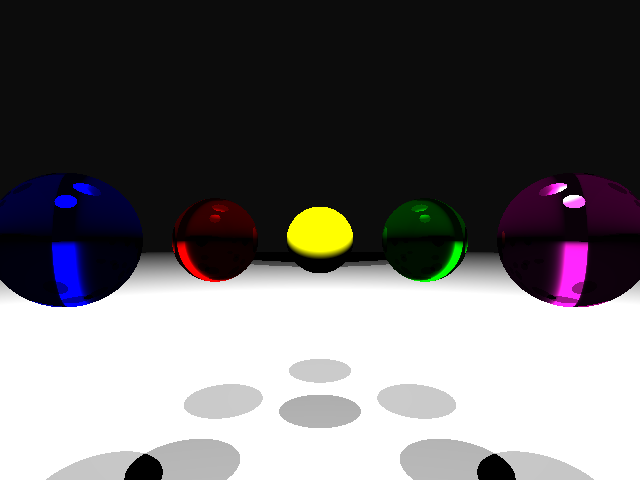
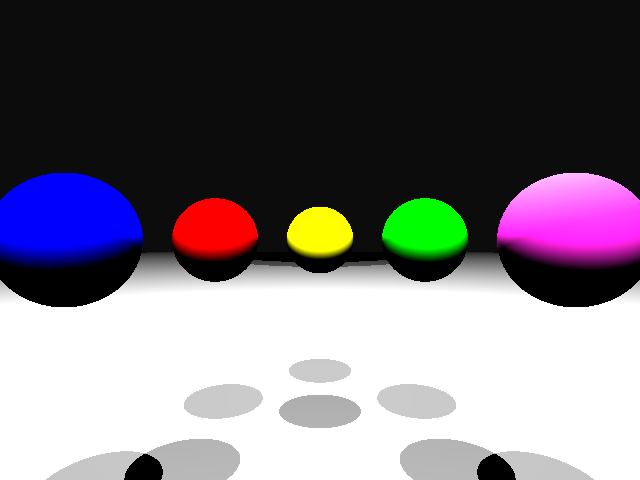
Add zbuffer

Changed region(s): [[0.5938, 0.3438, 1.0, 0.6562], [0.0, 0.3438, 0.4062, 0.6562]]

diff --git a/PipelineRayCasting/RayTracing.cpp b/PipelineRayCasting/RayTracing.cpp
@@ -1,6 +1,7 @@
 #include "RayTracing.h"
 
-float MAX_DEPTH = 3;
+float MAX_DEPTH = 0;
+float z = 0;
 
 RayTracing::RayTracing()
 {
@@ -76,11 +77,14 @@ Vec3f trace(
 	}
 
 
-	if (!sphere) 
+	if (!sphere) {
+		z = -1;
 		return background_color;
+	}
 
 	Vec3f surfaceColor = 0; 
 	Vec3f intersection = rayorig + raydir * tnear; // point of intersection
+	z = intersection.z;
 	Vec3f normal;
 	Vec2f tex;
 	sphere->getSurfaceData(intersection, normal, tex); // normal at the intersection point
@@ -175,6 +179,8 @@ void render(
 			camera.cameraToWorld().multDirMatrix(Vec3f(x, y, -1), dir);
 			dir.normalize();
 			*(pix++) = castRay(orig, dir, objects);
+			//cout << z << endl;
+			image->zbuffer[j * w + i] = z;
 		}
 	}
 

diff --git a/PipelineRayCasting/Image.cpp b/PipelineRayCasting/Image.cpp
@@ -5,6 +5,7 @@ Image::Image(int width, int height)
 	w = width;
 	h = height;
 	pixels.resize(width * height * 4);
+	zbuffer.resize(width * height);
 }
 
 void Image::saveImage(string fileName)

diff --git a/PipelineRayCasting/Image.h b/PipelineRayCasting/Image.h
@@ -23,6 +23,7 @@ public:
 	void saveImage(string fileName);
 	//RGBType *pixels;
 	std::vector<unsigned char> pixels;
+	std::vector<float> zbuffer;
 	int w;
 	int h;
 	int dpi;

diff --git a/PipelineRayCasting/RayTracing.h b/PipelineRayCasting/RayTracing.h
@@ -10,7 +10,5 @@ public:
 	~RayTracing();
 
 	Image* RenderScene(vector<Object*> objects, Camera camera, int w, int h);
-
-	int MAX_DEPTH;
 };
 
